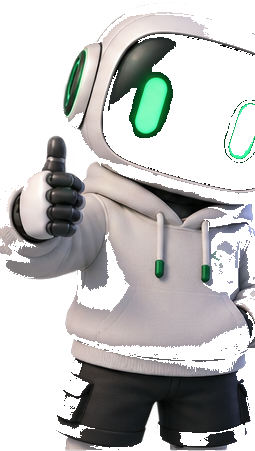
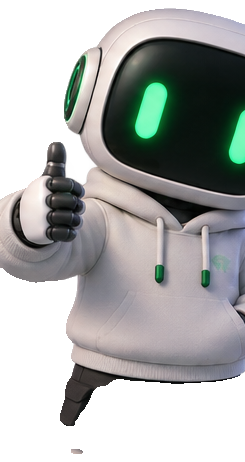
fix(ui): clean mascot cutouts via per-tile rembg (u2net) matting
- replace crude flood-fill with rembg per-tile matting: no speckle/fringe/neighbor-bleed
- sitting-laptop pose mattes poorly (silver laptop read as bg) -> use clean thumbsup pose in Meet MIRA
- all landing mascots now crisp transparent PNGs

diff --git a/src/app/page.tsx b/src/app/page.tsx
@@ -285,7 +285,7 @@ export default function Landing() {
           </div>
           <div className="relative grid min-h-[340px] place-items-center">
             <Orb size={240} className="opacity-80" />
-            <div className="relative"><MascotImage pose="laptop" size={320} glow={false} /></div>
+            <div className="relative"><MascotImage pose="thumbsup" size={320} glow={false} /></div>
           </div>
         </div>
       </section>

diff --git a/scripts/slice_mascot2.py b/scripts/slice_mascot2.py
@@ -1,5 +1,5 @@
-"""High-quality mascot slicing: rembg (u2net) matte on the full sheet, then
-crop with tuned, gap-separated boxes (no neighbor bleed), autocrop to content.
+"""High-quality mascot slicing: crop each pose from the sheet, then run rembg
+(u2net) on each SINGLE-subject tile (what it's good at), autocrop to content.
 """
 from pathlib import Path
 
@@ -11,8 +11,7 @@ SRC = ROOT / ".context/attachments/Dsquei/image.png"
 OUT = ROOT / "public/mascot"
 OUT.mkdir(parents=True, exist_ok=True)
 
-# Tuned boxes with gaps between neighbors so no adjacent mascot bleeds in.
-# (name, x0, y0, x1, y1)
+# Tuned boxes with gaps so no adjacent mascot bleeds in. (name, x0,y0,x1,y1)
 TILES = [
     ("hero", 30, 10, 370, 512),
     ("wave", 395, 10, 745, 512),
@@ -25,28 +24,25 @@ TILES = [
 ]
 
 
-def autocrop(img: Image.Image, pad: int = 6) -> Image.Image:
+def autocrop(img: Image.Image, pad: int = 8) -> Image.Image:
     bbox = img.getbbox()
     if not bbox:
         return img
     x0, y0, x1, y1 = bbox
-    x0 = max(0, x0 - pad); y0 = max(0, y0 - pad)
-    x1 = min(img.width, x1 + pad); y1 = min(img.height, y1 + pad)
-    return img.crop((x0, y0, x1, y1))
+    return img.crop((max(0, x0 - pad), max(0, y0 - pad), min(img.width, x1 + pad), min(img.height, y1 + pad)))
 
 
 def main() -> None:
-    print("Loading sheet + running rembg (u2net) on full sheet …")
+    print("rembg per-tile (u2net, single subject each) …")
     sheet = Image.open(SRC).convert("RGBA")
     session = new_session("u2net")
-    cut = remove(sheet, session=session, post_process_mask=True)  # transparent bg
-    cut.save(OUT / "_sheet_cut.png")
-    print("  matte done")
     for name, x0, y0, x1, y1 in TILES:
-        tile = cut.crop((x0, y0, x1, y1))
-        cleaned = autocrop(tile)
+        tile = sheet.crop((x0, y0, x1, y1))
+        cut = remove(tile, session=session, post_process_mask=True)
+        cleaned = autocrop(cut)
         cleaned.save(OUT / f"{name}.png")
         print(f"  {name}.png  {cleaned.size}")
+    (OUT / "_sheet_cut.png").unlink(missing_ok=True)
     print("done ->", OUT)
 
 
